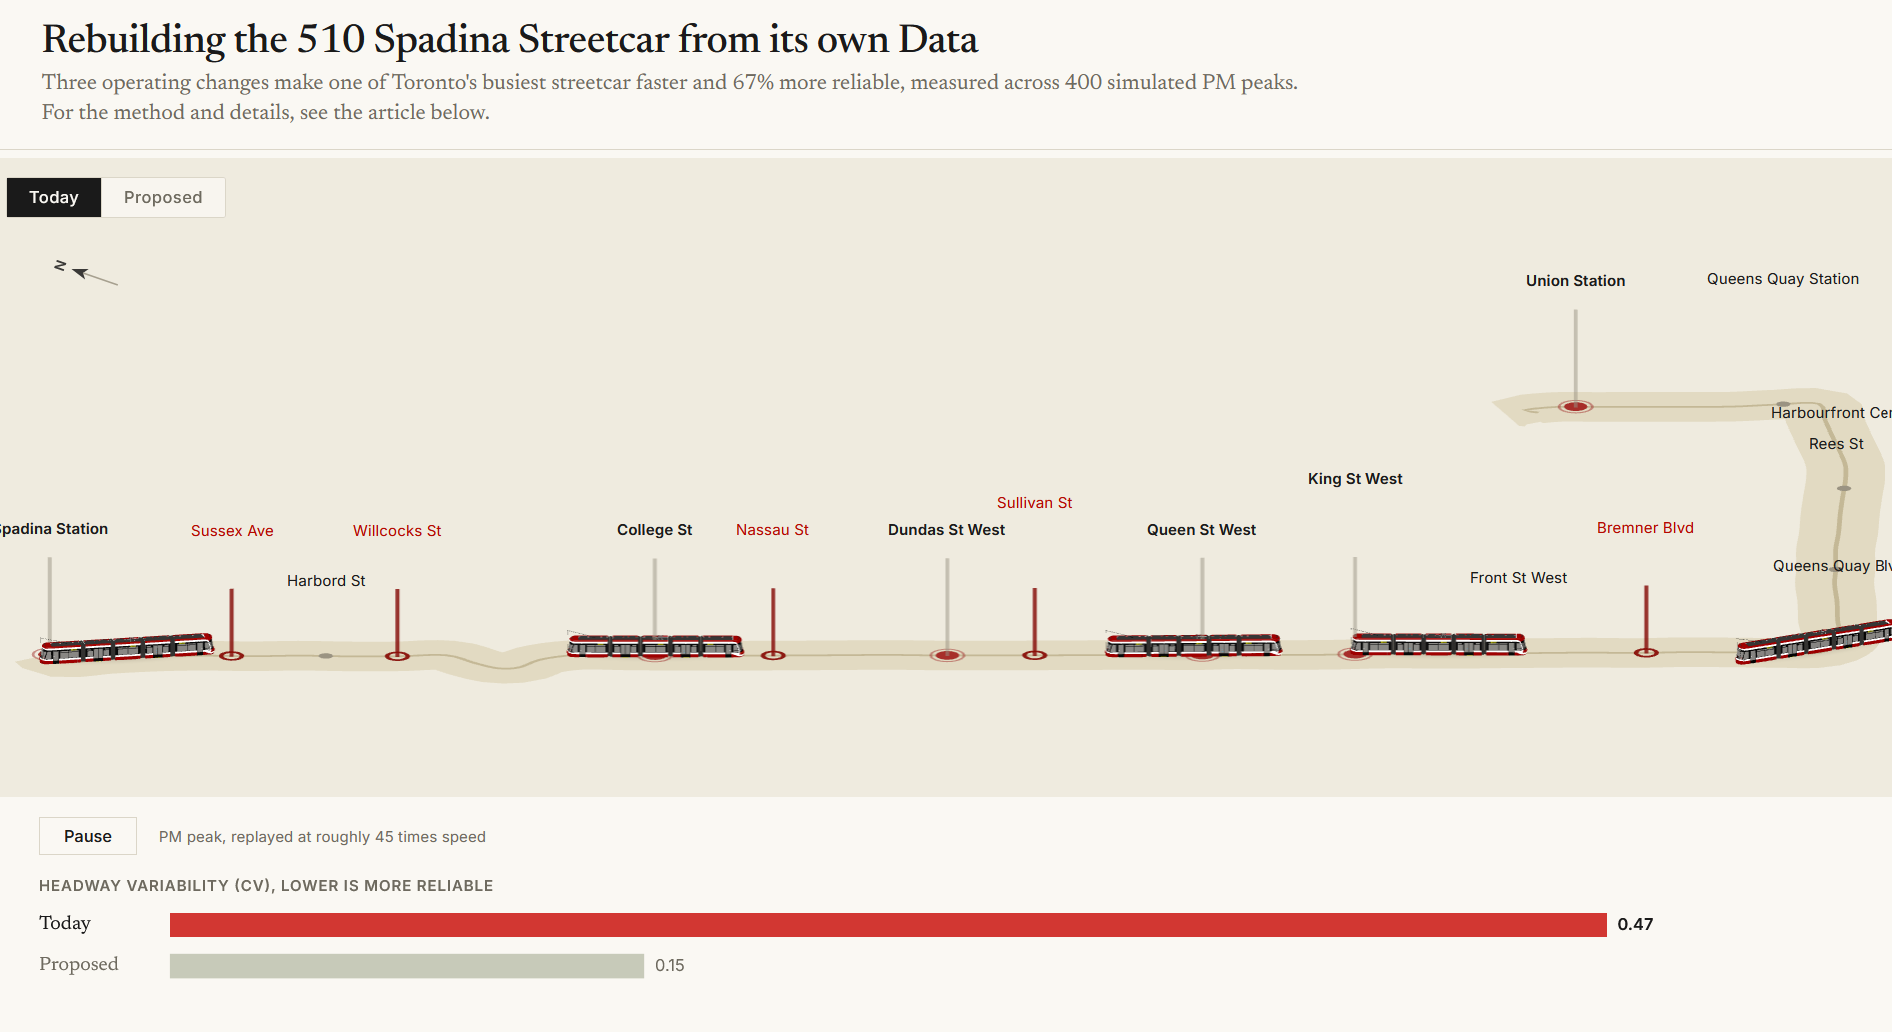
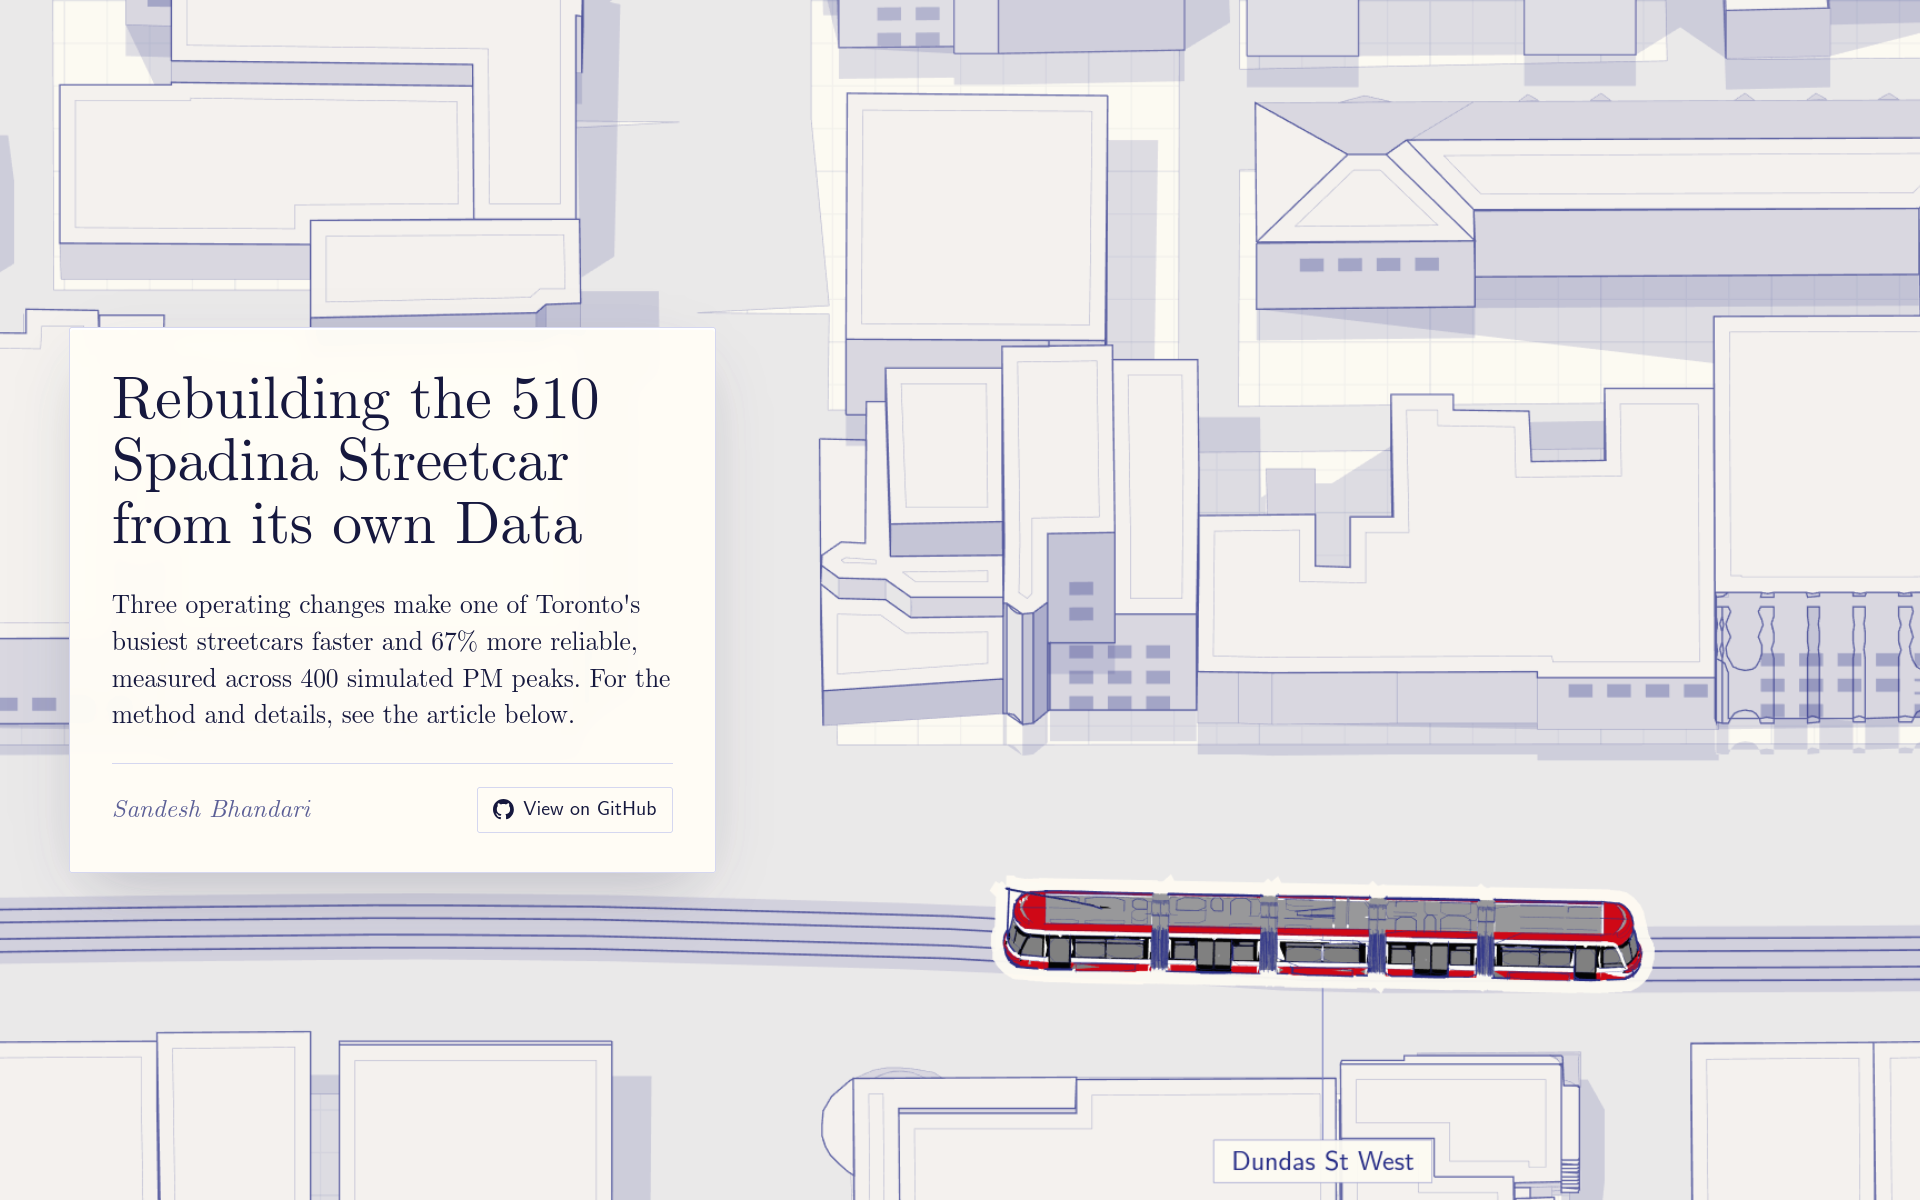
update readme

diff --git a/README.md b/README.md
@@ -2,88 +2,62 @@
 
 # Rebuilding the 510 Spadina from its own data
 
-A calibrated simulation of Toronto's 510 Spadina streetcar, built from the line's own
-published schedule and delay records, paired with an interactive editorial webapp that replays
-what the model produced. The question it answers: how much faster and more reliable could the
-510 be if we changed how it is run rather than what it is built from.
+A calibrated simulation of Toronto's 510 Spadina streetcar, built from the line's published schedule and delay records, paired with an interactive scrollytelling webapp that replays what the model produced. The question it answers: how much faster and more reliable could the 510 be if we changed how it is run rather than what it is built from?
 
-The headline result, measured across 400 simulated PM peaks: three operating changes make the
-line meaningfully faster and about **67% more reliable**, cutting the variability in the gap
-between cars (headway CV) from 0.47 to 0.15.
+Across 400 simulated PM peak runs, three operating changes make the line meaningfully faster and roughly **67% more reliable**, cutting the gap variability between cars (headway CV) from 0.47 to 0.15.
 
 ## How it works
 
-The core is a mechanistic simulation, not a curve fit. Cars run down the corridor one after
-another, riders arrive at each stop at a steady rate, and the number waiting when a car pulls
-in sets its dwell. A car that falls slightly behind picks up slightly more riders, dwells
-slightly longer, and falls further behind, while the car behind catches up. Because streetcars
-share one track and cannot pass, they then travel as a bunch. Nothing in the model decides that
-the line is slow or clumpy: that behaviour emerges from the mechanics alone.
+The core is a mechanistic simulation, not a curve fit. Streetcars run down the corridor one after another, riders arrive at each stop at a steady rate, and the number waiting when a car pulls in sets its dwell time. A car that falls slightly behind picks up slightly more riders, dwells longer, and falls further behind, while the car behind catches up. Because streetcars share a single track and cannot pass, they clump together. Nothing in the model forces the line to be slow or bunched; that behavior emerges entirely from the mechanics.
 
-The baseline is calibrated to two facts measured independently from the data: the scheduled end
-to end run time (about 29 minutes) and the headway variability seen in the delay logs. Only
-then are three changes applied, each acting on the mechanism and never on the result:
+The baseline is calibrated against two facts measured independently from TTC open data: the scheduled end-to-end run time (about 29 minutes) and the headway variability in the delay logs. From there, three operating changes are tested:
 
-- **Stop consolidation**, removing five stops that sit too close together.
-- **Conditional signal priority**, giving late cars a green at signals.
-- **Headway holding**, dispatching to an even gap instead of a clock.
+- **Stop consolidation**: removing five stops that sit too close together.
+- **Conditional signal priority**: giving late cars a green light at signals.
+- **Headway holding**: dispatching and holding to an even time gap instead of a clock schedule.
 
-Every scenario is run as a 400 replication Monte Carlo ensemble, so each reported number carries
-a confidence interval. The simulation is the single source of truth: the webapp does not
-re-implement any of it, it replays an exported sample of genuine runs.
+Each scenario is evaluated with a 400-run Monte Carlo ensemble to produce confidence intervals. The simulation is the single source of truth: the webapp does not recalculate anything in the browser, it replays genuine runs.
 
-### The model package (`src/`)
+## Architecture
 
-`config.py` centralizes every constant and path. `geometry.py` rebuilds the corridor from the
-real GTFS `stops.txt` and `shapes.txt`. `data.py` loads and cleans the delay records and the
-schedule. `simulation.py` is the mechanistic core; `calibrate.py` tunes the baseline to the
-measured targets; `interventions.py` defines the three changes; `monte_carlo.py` runs the
-ensemble; `export.py` writes `route.json` and `sim.json` into `assets/`.
+### The simulation package (`src/`)
 
-## Running it locally
+The Python package in `src/` runs the model and exports the data:
 
-```bash
-# 1. regenerate the webapp data from the model
-python notebook/export_webapp.py
+- `config.py` — corridor constants, targets, and paths.
+- `data.py` — loads and cleans TTC delay logs and GTFS schedule records.
+- `geometry.py` — reconstructs the corridor geometry and stop spacing from GTFS feeds.
+- `demand.py` — rider boarding and arrival rates along the route.
+- `simulation.py` — mechanistic simulation core (dwells, signal waits, single-track physics).
+- `calibrate.py` — tunes cruise speed and link noise to match real-world targets.
+- `interventions.py` — applies the three operating changes to the corridor.
+- `monte_carlo.py` — runs multi-scenario ensembles and aggregates results.
+- `metrics.py` — computes travel time percentiles, speeds, headway CV, and bunching rates.
+- `viz.py` — generates Marey time-space diagrams, CDF curves, and sensitivity plots.
+- `export.py` — writes simulation runs and route keypoints to `assets/route.json` and `assets/sim.json`.
 
-# 2. rebuild and render the article that sits in the right-hand panel
-python notebook/render_html.py
+The full analysis walk-through and figure generation live in `notebook/510_spadina.ipynb`.
 
-# 3. serve the site from the repository root with any static server
-python -m http.server 8000
-#    then open http://localhost:8000
-```
+### The webapp (`index.html`, `app.*.js`, `tape/`)
 
-The page is plain static files: three.js, d3 and the GLTF and OrbitControls add-ons load as ES
-modules from a CDN through the import map, so there is no build step.
+The web frontend is a scrollytelling visual article built with **June**, my custom JavaScript visualization engine:
+
+- **Scrollytelling stage**: As you scroll through the article cards, the June web runtime replays vector tape frames (`tape/`) on a sticky canvas using WebGL2 (with 2D canvas fallback) at 30 fps.
+- **Corridor explorer**: An interactive section at the bottom lets readers pause and watch streetcars run the full PM peak corridor at roughly 45× real-time speed.
+- **Zero build dependencies**: The web client runs entirely on static files with local web fonts (Computer Modern). No node packages, CDN scripts, or external 3D libraries are needed.
 
 ## Built with
 
-- [three.js](https://threejs.org/) for the 2.5D diorama and the 3D streetcar model
-- [D3](https://d3js.org/) for the reliability chart
-- Python (numpy, pandas) for the simulation, calibration and export
-- Jupyter and nbconvert for the article
+- **June** — custom JavaScript visualization engine for the scrollytelling canvas and playback.
+- **Python** (NumPy, pandas, Matplotlib) — simulation mechanics, calibration, Monte Carlo runs, and plotting.
+- **Jupyter** — analysis notebook and interactive figures.
 
 ## Data sources
 
-The corridor and calibration are built from the City of Toronto and TTC open data: the TTC GTFS
-feed (route shapes and the schedule) and the TTC streetcar delay records.
+- City of Toronto and TTC Open Data:
+  - TTC GTFS feed (route shapes and scheduled service)
+  - TTC streetcar delay logs (2024–2026)
 
-## Acknowledgements
+## Credits
 
-- Developed with assistance from Google Gemini 3.1 Pro/Flash for coding, debugging, and documentation.
-
-###### Special, special thanks to Jacob L.
-
-The 3D streetcar in the diorama is **not my work**. It is a Flexity Outlook model created by
-**Jacob L.** and published on SketchUp 3D Warehouse, and the project would not look the way it
-does without it.
-
-- Model: [TTC new low floor streetcar](https://3dwarehouse.sketchup.com/model/166ee52d5726aab3971e77ca4a254c30/TTC-new-low-floor-streetcar)
-- Author: [Jacob L. on 3D Warehouse](https://3dwarehouse.sketchup.com/user/0872588832337049077703672/Jacob-L)
-
-The file shipped here (`assets/streetcar.glb`) is a merged and decimated derivative of Jacob L.'s
-original model. All credit for the vehicle
-design and modelling belongs to Jacob L., the model remains their work, and it is used here with
-gratitude and full attribution. If you reuse this project, please keep this credit intact and
-respect the original model's 3D Warehouse terms.
+- Streetcar 3D model asset (`assets/streetcar.glb`): derived from Jacob L.'s Flexity Outlook streetcar model on SketchUp 3D Warehouse.
